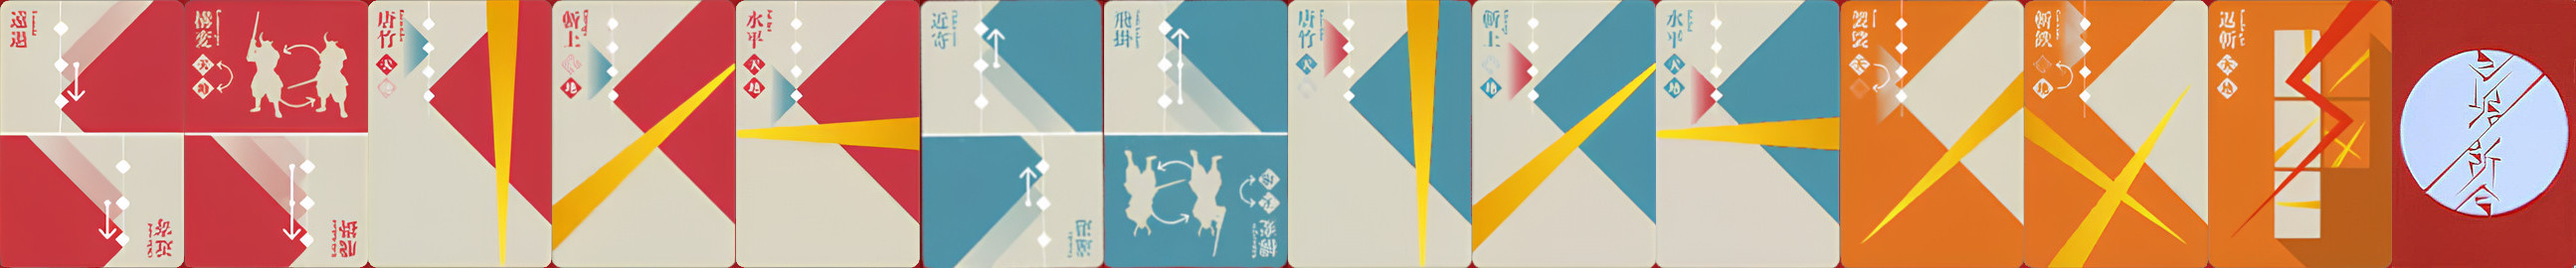
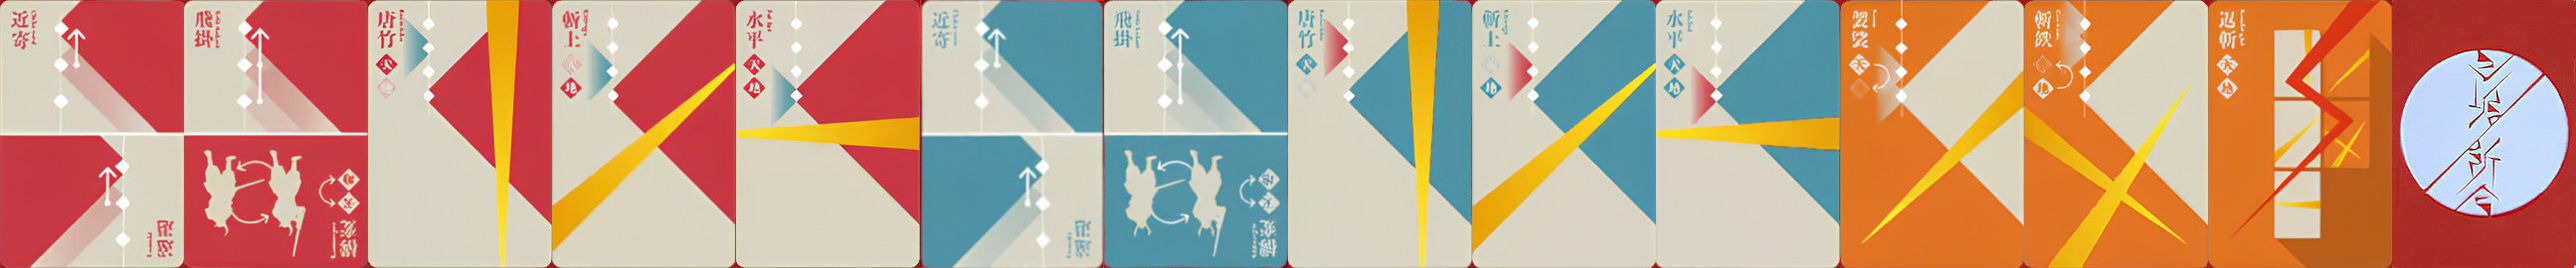
Fix card rotation, moveCard origin, and db score function

diff --git a/kiriaitheduel.js b/kiriaitheduel.js
@@ -194,12 +194,21 @@ function (dojo, declare) {
 				return;
 			}
 
-			let divFrom = target.parentNode;
+			// Calculate the position of the target relative to divTo
+			let targetPosition = target.getBoundingClientRect();
+			let divToPosition = divTo.getBoundingClientRect();
+
+			let relativePosition = {
+				top: targetPosition.top - divToPosition.top,
+				left: targetPosition.left - divToPosition.left
+			};
 
 			dojo.place(target, divTo);
 
-			this.placeOnObject('cardontable_' + card_id, divFrom);
-            this.slideToObject('cardontable_' + card_id, to).play();
+			dojo.style(target, 'top', relativePosition.top + 'px');
+			dojo.style(target, 'left', relativePosition.left + 'px');
+
+			this.slideToObject('cardontable_' + card_id, to).play();
         },
 
 		updateAll : function(state)

diff --git a/kiriaitheduel.game.php b/kiriaitheduel.game.php
@@ -495,6 +495,16 @@ class KiriaiTheDuel extends Table
 		throw new BgaUserException( self::_("Player has no cards in their hand? This should not be possible.") );
 	}
 
+	// get score
+	function dbGetScore($player_id) {
+		return $this->getUniqueValueFromDB("SELECT player_score FROM player WHERE player_id='$player_id'");
+	}
+
+	// set score
+	function dbSetScore($player_id, $count) {
+		$this->DbQuery("UPDATE player SET player_score='$count' WHERE player_id='$player_id'");
+	}
+
 	function stResolveCards()
 	{
 		$redPlayer = self::getGameStateValue( 'redPlayer' );
